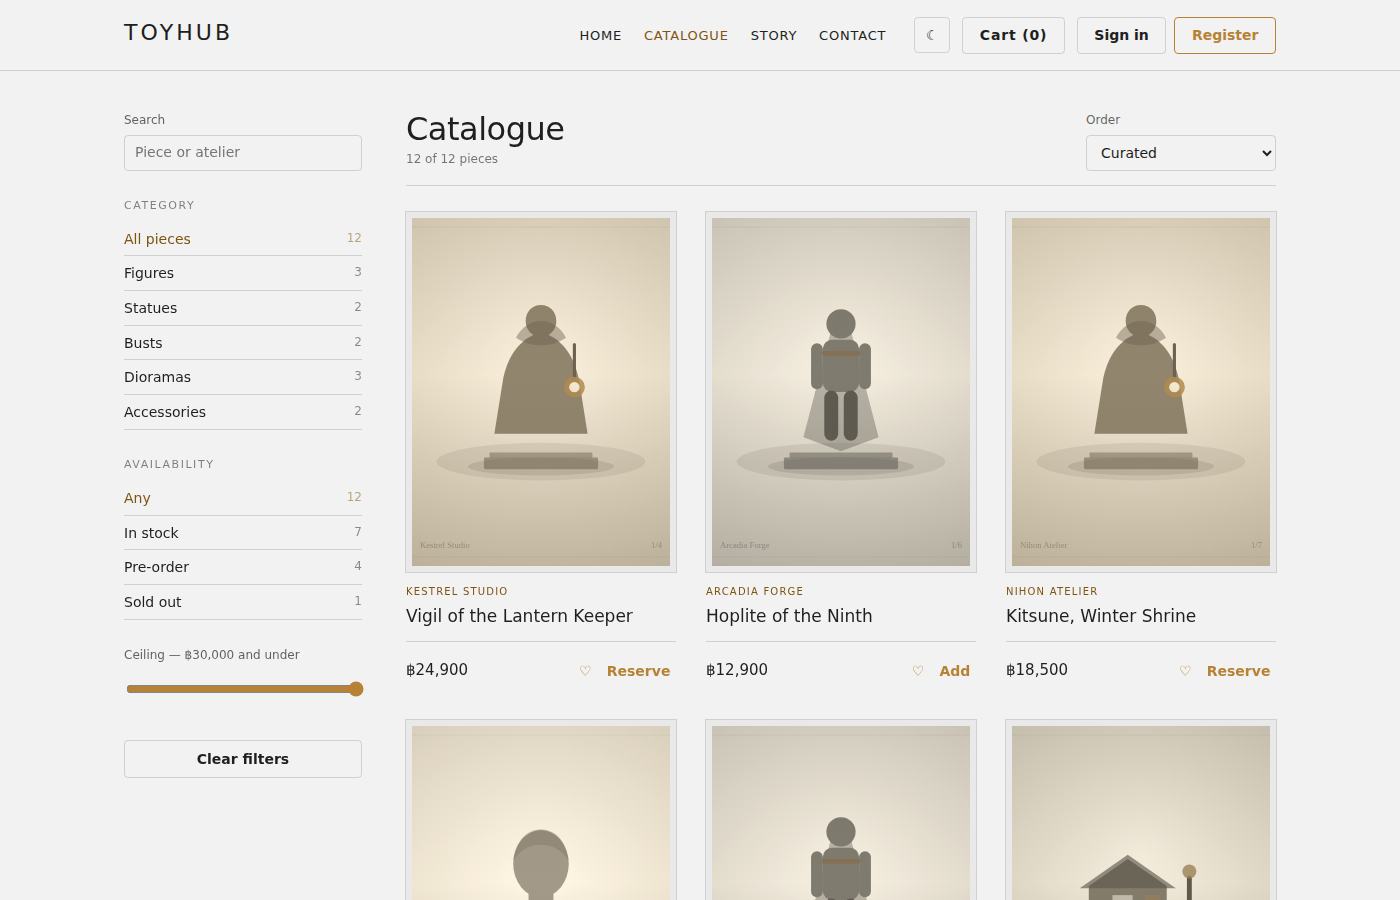
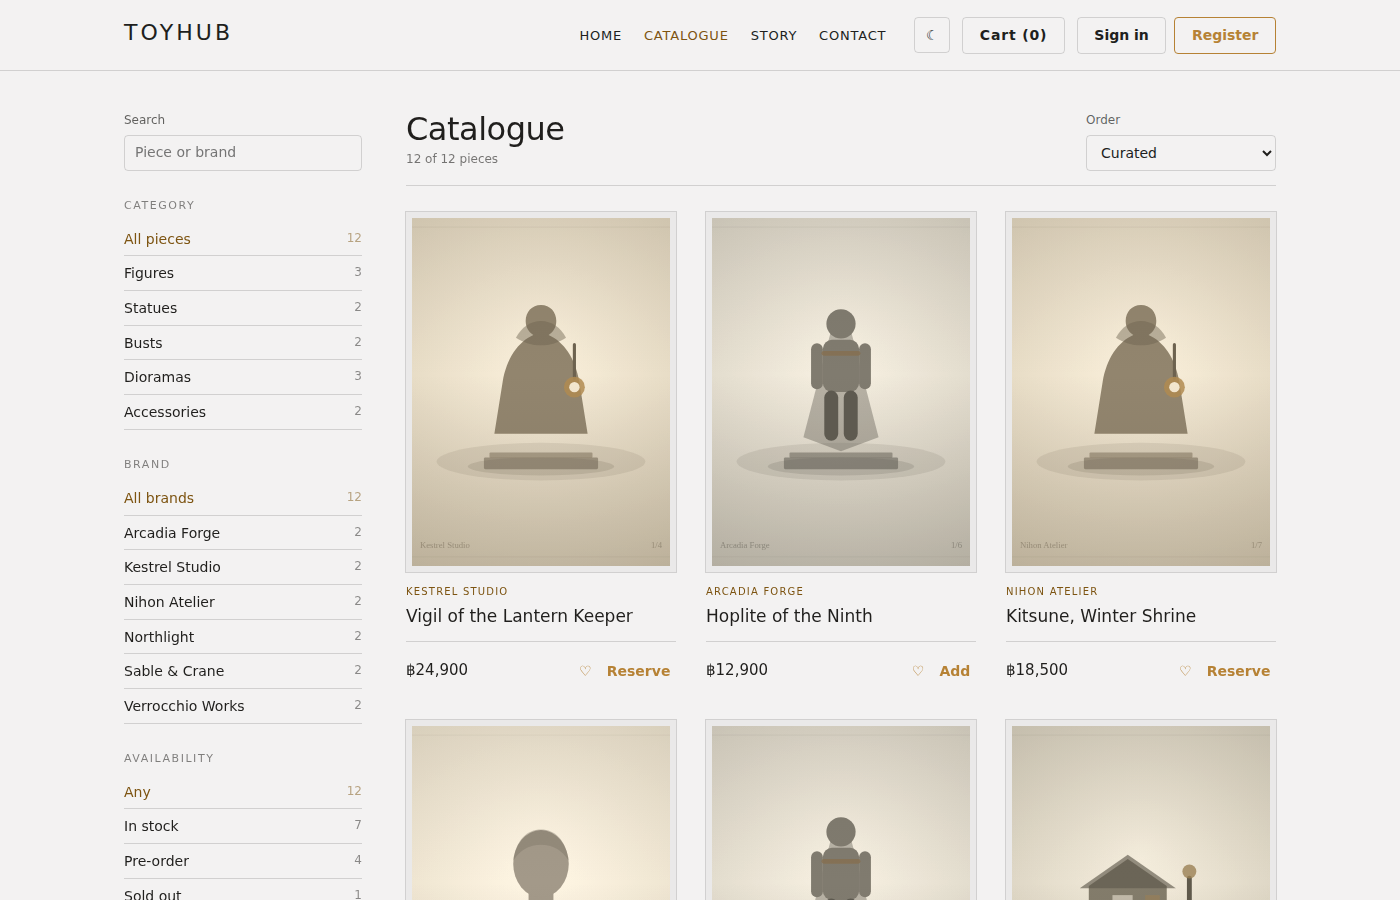
Turn the brand into something chosen, and filterable
Brand was a free-text field labelled Atelier, so the same maker could be
spelled three ways and nothing could group by it. It is now picked from
the brands the shop carries — Inart, UPFinegures/LPZZ and Hot Toys to
begin with — with "Add a new brand…" in the same control for anything
else, and the catalogue gains a Brand filter beside category and
availability. Every "Atelier" label reads Brand.

A native dropdown popup is painted on the OS background but inherits the
field's colour, so in the dark theme the options were near-white on
white. Options now carry their own colour: 13.5:1 in both themes.

New arrivals and Restore samples are gone, the latter along with the API
route and client call that only that button used.

diff --git a/toyhub/public/js/views/shop.js b/toyhub/public/js/views/shop.js
@@ -1,5 +1,5 @@
 import { h } from '../dom.js';
-import { CATS, STATUSES, ACCENT, INK, money } from '../helpers.js';
+import { CATS, STATUSES, brandsOf, ACCENT, INK, money } from '../helpers.js';
 import { plateCard, emptyState } from './common.js';
 import { textField } from './forms.js';
 
@@ -7,6 +7,7 @@ function filteredProducts(s) {
   const q = s.q.trim().toLowerCase();
   let list = s.products.filter((p) =>
     (s.cat === 'All' || p.category === s.cat) &&
+    (s.brand === 'All' || p.line === s.brand) &&
     (s.status === 'All' || p.status === s.status) &&
     Number(p.price) <= Number(s.maxPrice) &&
     (!q || (p.name + ' ' + p.line + ' ' + p.category).toLowerCase().includes(q))
@@ -33,12 +34,23 @@ export function renderShop(store) {
   return h('main', { style: 'max-width:1200px;margin:0 auto;padding:40px 24px 80px' }, [
     h('div', { 'data-shopgrid': true, style: 'display:grid;grid-template-columns:238px minmax(0,1fr);gap:44px;align-items:start' }, [
       h('aside', { 'data-sticky': true, style: 'position:sticky;top:96px;display:flex;flex-direction:column;gap:26px' }, [
-        textField({ key: 'shop.q', label: 'Search', type: 'search', placeholder: 'Piece or atelier', value: s.q, set: (v) => store.set({ q: v }) }),
+        textField({ key: 'shop.q', label: 'Search', type: 'search', placeholder: 'Piece or brand', value: s.q, set: (v) => store.set({ q: v }) }),
         h('div', {}, [
           h('div', { style: 'font-size:11px;letter-spacing:0.14em;text-transform:uppercase;opacity:0.55;margin-bottom:10px' }, 'Category'),
           h('div', { style: 'display:flex;flex-direction:column;gap:2px' }, [
             filterRow('All pieces', products.length, s.cat === 'All', () => store.set({ cat: 'All' })),
             ...CATS.map((c) => filterRow(c, products.filter((p) => p.category === c).length, s.cat === c, () => store.set({ cat: c })))
+          ])
+        ]),
+        h('div', {}, [
+          h('div', { style: 'font-size:11px;letter-spacing:0.14em;text-transform:uppercase;opacity:0.55;margin-bottom:10px' }, 'Brand'),
+          h('div', { style: 'display:flex;flex-direction:column;gap:2px' }, [
+            filterRow('All brands', products.length, s.brand === 'All', () => store.set({ brand: 'All' })),
+            // Only brands with something on the shelf — an empty row is a dead end.
+            ...brandsOf(products)
+              .map((b) => [b, products.filter((p) => p.line === b).length])
+              .filter(([, n]) => n > 0)
+              .map(([b, n]) => filterRow(b, n, s.brand === b, () => store.set({ brand: b })))
           ])
         ]),
         h('div', {}, [
@@ -52,7 +64,7 @@ export function renderShop(store) {
           h('label', {}, `Ceiling — ${money(s.maxPrice)} and under`),
           h('input', { class: 'input', type: 'range', 'data-key': 'shop.maxPrice', min: 1000, max: priceMax, step: 500, value: s.maxPrice, style: 'padding:0;border:0;accent-color:var(--color-accent)', onInput: (e) => store.set({ maxPrice: Number(e.target.value) }) })
         ]),
-        h('button', { class: 'btn btn-secondary', onclick: () => store.set({ q: '', cat: 'All', status: 'All', maxPrice: 30000, sort: 'curated' }) }, 'Clear filters')
+        h('button', { class: 'btn btn-secondary', onclick: () => store.set({ q: '', cat: 'All', brand: 'All', status: 'All', maxPrice: 30000, sort: 'curated' }) }, 'Clear filters')
       ]),
       h('div', {}, [
         h('div', { style: 'display:flex;align-items:flex-end;justify-content:space-between;gap:20px;border-bottom:1px solid var(--color-divider);padding-bottom:14px;margin-bottom:26px;flex-wrap:wrap' }, [
@@ -73,7 +85,7 @@ export function renderShop(store) {
         h('div', { style: 'display:grid;grid-template-columns:repeat(auto-fill,minmax(220px,1fr));gap:30px' },
           shop.map((p) => plateCard(store, p, { showActions: true }))),
         shop.length === 0 ? emptyState('Nothing under these terms', 'Loosen the ceiling or clear the filters to see the full cabinet.', 'Clear filters',
-          () => store.set({ q: '', cat: 'All', status: 'All', maxPrice: 30000, sort: 'curated' })) : null
+          () => store.set({ q: '', cat: 'All', brand: 'All', status: 'All', maxPrice: 30000, sort: 'curated' })) : null
       ])
     ])
   ]);

diff --git a/toyhub/public/js/views/home.js b/toyhub/public/js/views/home.js
@@ -1,6 +1,6 @@
 import { h } from '../dom.js';
 import { imgsOf, featuredOrder, pickRandom, money, bgUrl, MAX_FEATURED } from '../helpers.js';
-import { plateBg, plateCard, infoCard } from './common.js';
+import { plateBg, plateCard } from './common.js';
 
 // The hero plate opens the piece it is showing, so the image is as clickable as
 // the "View the plate" button beside it.
@@ -31,7 +31,6 @@ export function renderHome(store) {
   const heroImgs = hero ? imgsOf(hero) : [];
   const brands = Array.from(new Set(products.map((p) => p.line))).filter(Boolean);
   const featured = pickRandom(products, 4, s.seed);
-  const arrivals = products.slice(-3).reverse();
 
   return h('main', {}, [
     h('section', { style: 'max-width:1200px;margin:0 auto;padding:56px 24px 0' }, [
@@ -66,7 +65,7 @@ export function renderHome(store) {
 
     h('section', { 'data-reveal': true, style: 'max-width:1200px;margin:64px auto 0;padding:0 24px' }, [
       h('div', { style: 'display:flex;align-items:baseline;gap:18px;border-top:1px solid var(--color-divider);border-bottom:1px solid var(--color-divider);padding:14px 0;flex-wrap:wrap' }, [
-        h('span', { style: 'font-size:11px;letter-spacing:0.18em;text-transform:uppercase;opacity:0.55' }, 'Ateliers we carry'),
+        h('span', { style: 'font-size:11px;letter-spacing:0.18em;text-transform:uppercase;opacity:0.55' }, 'Brands we carry'),
         h('div', { style: 'display:flex;flex-wrap:wrap;gap:26px;margin-left:auto' },
           brands.map((name) => h('span', { style: 'font-family:var(--font-heading);font-size:15px;letter-spacing:0.08em' }, name)))
       ])
@@ -87,22 +86,13 @@ export function renderHome(store) {
         featured.map((p) => plateCard(store, p, { showActions: false })))
     ]),
 
-    h('section', { 'data-reveal': true, style: 'max-width:1200px;margin:80px auto 0;padding:0 24px' }, [
-      h('div', { style: 'display:flex;align-items:baseline;justify-content:space-between;border-bottom:1px solid var(--color-divider);padding-bottom:12px;margin-bottom:24px' }, [
-        h('h2', { style: 'font-weight:400;margin:0' }, 'New arrivals'),
-        h('span', { class: 'tnum', style: 'font-size:11px;letter-spacing:0.14em;text-transform:uppercase;opacity:0.55' }, `${String(products.length).padStart(2, '0')} pieces added`)
-      ]),
-      h('div', { style: 'display:grid;grid-template-columns:repeat(auto-fill,minmax(260px,1fr));gap:22px' },
-        arrivals.map((p) => infoCard(store, p, { body: 'short', metaRight: 'status' })))
-    ]),
-
     h('section', { id: 'story', 'data-reveal': true, style: 'max-width:1200px;margin:88px auto 0;padding:0 24px' }, [
       h('div', { 'data-col2': true, style: 'display:grid;grid-template-columns:minmax(0,1fr) minmax(0,1fr);gap:48px;align-items:start;border-top:1px solid var(--color-divider);padding-top:34px' }, [
         h('div', {}, [
           h('div', { style: 'font-size:11px;letter-spacing:0.18em;text-transform:uppercase;color:var(--color-accent-700);margin-bottom:14px' }, 'The shop'),
           h('h2', { style: 'font-size:34px;font-weight:400;margin:0 0 16px' }, 'A cabinet, not a toybox'),
           h('div', { 'data-cols2text': true, style: 'column-count:2;column-gap:32px;column-rule:1px solid var(--color-divider)' }, [
-            h('p', { class: 'just', style: 'font-size:14px;opacity:0.85' }, 'ToyHub keeps a short list on purpose. Each piece is examined, photographed on the bench, and listed with its atelier, scale and edition size — nothing enters the cabinet unless we would keep it ourselves.'),
+            h('p', { class: 'just', style: 'font-size:14px;opacity:0.85' }, 'ToyHub keeps a short list on purpose. Each piece is examined, photographed on the bench, and listed with its brand, scale and edition size — nothing enters the cabinet unless we would keep it ourselves.'),
             h('p', { class: 'just', style: 'font-size:14px;opacity:0.85' }, 'Pre-orders are held at deposit and settled when the shipping window opens. Collectors are welcome to reserve a plate, ask for bench photographs, or leave a piece on hold while a shelf is being built for it.')
           ]),
           h('button', { class: 'btn btn-secondary', style: 'margin-top:22px', onclick: () => store.go('shop') }, 'Enter the catalogue')

diff --git a/toyhub/public/js/views/admin.js b/toyhub/public/js/views/admin.js
@@ -1,6 +1,6 @@
 import { h } from '../dom.js';
 import { api } from '../api.js';
-import { money, dateLabel, ACCENT, INK } from '../helpers.js';
+import { money, dateLabel, BRANDS, ACCENT, INK } from '../helpers.js';
 import { textField } from './forms.js';
 import { emptyState } from './common.js';
 
@@ -28,7 +28,7 @@ function catalogueTab(store) {
     h('p', { style: 'font-size:13px;opacity:0.6;margin:0 0 20px;max-width:74ch' }, 'Up to four pieces can be featured in the homepage hero — marking a fifth releases the piece featured longest. Stock falls automatically as orders are paid, and a piece with no units left is marked sold out.'),
     h('div', { 'data-scroll': true }, [
       h('table', { class: 'table tnum' }, [
-        h('thead', {}, [h('tr', {}, ['Piece', 'Atelier', 'Category', 'Status', 'Stock', 'Price', 'Photos', ''].map((t) => h('th', {}, t)))]),
+        h('thead', {}, [h('tr', {}, ['Piece', 'Brand', 'Category', 'Status', 'Stock', 'Price', 'Photos', ''].map((t) => h('th', {}, t)))]),
         h('tbody', {}, s.products.map((p) => h('tr', {}, [
           h('td', {}, [
             h('div', { style: 'font-family:var(--font-heading);font-size:17px' }, p.name),
@@ -177,16 +177,8 @@ export function renderAdmin(store) {
       ]),
       h('div', { style: 'display:flex;gap:10px' }, [
         h('button', {
-          class: 'btn btn-secondary', onclick: async () => {
-            const { products } = await api.restoreSamples();
-            store.state.products = products;
-            store.flash('Sample catalogue restored');
-            store.set({});
-          }
-        }, 'Restore samples'),
-        h('button', {
           class: 'btn btn-primary',
-          onclick: () => store.set({ adminTab: 'catalogue', draftError: false, draft: { id: '', name: '', line: '', category: 'Figures', scale: '1/6', price: 9900, status: 'In stock', release: '', edition: '', featured: false, images: [], stock: 5, description: '' } })
+          onclick: () => store.set({ adminTab: 'catalogue', draftError: false, draft: { id: '', name: '', line: BRANDS[0], category: 'Figures', scale: '1/6', price: 9900, status: 'In stock', release: '', edition: '', featured: false, images: [], stock: 5, description: '' } })
         }, 'Add a piece')
       ])
     ]),

diff --git a/toyhub/public/js/views/draftDialog.js b/toyhub/public/js/views/draftDialog.js
@@ -1,7 +1,33 @@
 import { h } from '../dom.js';
 import { api } from '../api.js';
-import { CATS, STATUSES } from '../helpers.js';
+import { CATS, STATUSES, brandsOf } from '../helpers.js';
 import { textField, textareaField } from './forms.js';
+
+const NEW_BRAND = '__new__';
+
+// A brand is picked from the ones the shop already carries, or typed once and
+// then carried by the piece — which is how a new brand comes into existence.
+function brandField(store, d, set) {
+  const known = brandsOf(store.state.products);
+  const adding = d.line === '' || (d.line && known.indexOf(d.line) === -1);
+  return h('div', { class: 'field' }, [
+    h('label', {}, 'Brand'),
+    h('select', {
+      class: 'input', value: adding ? NEW_BRAND : d.line,
+      onChange: (e) => {
+        set('line')(e.target.value === NEW_BRAND ? '' : e.target.value);
+        store.set({});
+      }
+    }, known.map((b) => h('option', { value: b }, b)).concat([
+      h('option', { value: NEW_BRAND }, 'Add a new brand…')
+    ])),
+    adding ? h('input', {
+      class: 'input', style: 'margin-top:8px', placeholder: 'New brand name',
+      value: d.line, 'data-key': 'draft.newBrand',
+      onInput: (e) => set('line')(e.target.value)
+    }) : null
+  ]);
+}
 
 export function renderDraftDialog(store) {
   const s = store.state;
@@ -37,7 +63,7 @@ export function renderDraftDialog(store) {
       h('div', { class: 'dialog-title' }, d.id ? 'Edit piece' : 'Add a piece'),
       h('div', { 'data-formgrid': true, style: 'display:grid;grid-template-columns:repeat(2,minmax(0,1fr));gap:14px' }, [
         h('div', { style: 'grid-column:1 / -1' }, [textField({ key: 'draft.name', label: 'Piece name', placeholder: 'Vigil of the Lantern Keeper', value: d.name, set: set('name') })]),
-        textField({ key: 'draft.line', label: 'Atelier', placeholder: 'Kestrel Studio', value: d.line, set: set('line') }),
+        brandField(store, d, set),
         h('div', { class: 'field' }, [
           h('label', {}, 'Category'),
           h('select', { class: 'input', value: d.category, onChange: (e) => { set('category')(e.target.value); store.set({}); } },

diff --git a/toyhub/server/routes/products.js b/toyhub/server/routes/products.js
@@ -3,7 +3,6 @@ const crypto = require('crypto');
 const { pool } = require('../db');
 const { requireAdmin } = require('../middleware/auth');
 const { serializeProduct, MAX_FEATURED } = require('../lib/helpers');
-const { SEED_PRODUCTS } = require('../lib/seed');
 
 const router = express.Router();
 const STATUSES = ['In stock', 'Pre-order', 'Sold out'];
@@ -103,19 +102,6 @@ router.put('/:id', requireAdmin, async (req, res) => {
 router.delete('/:id', requireAdmin, async (req, res) => {
   await pool.query('DELETE FROM products WHERE id = $1', [req.params.id]);
   res.json({ ok: true });
-});
-
-router.post('/admin/restore-samples', requireAdmin, async (req, res) => {
-  await pool.query('DELETE FROM products');
-  for (const p of SEED_PRODUCTS) {
-    await pool.query(
-      `INSERT INTO products (id, name, line, category, scale, price, status, release_window, edition, featured, featured_at, images, stock, description)
-       VALUES ($1,$2,$3,$4,$5,$6,$7,$8,$9,$10,$11,$12,$13,$14)`,
-      [p.id, p.name, p.line, p.category, p.scale, p.price, p.status, p.release_window, p.edition, p.featured, p.featured_at, p.images, p.stock, p.description]
-    );
-  }
-  const rows = await allProducts();
-  res.json({ products: rows.map(serializeProduct) });
 });
 
 module.exports = router;

diff --git a/toyhub/public/js/views/cart.js b/toyhub/public/js/views/cart.js
@@ -43,7 +43,7 @@ export function renderCart(store) {
     h('p', { style: 'font-size:13px;opacity:0.6;margin:0 0 26px' }, 'Pre-order lines can be settled as a 30% deposit or in full. A deposit-only order carries no carriage — that is charged when the piece ships.'),
     lines.length ? h('div', {}, [
       h('table', { class: 'table tnum' }, [
-        h('thead', {}, [h('tr', {}, [h('th', {}, 'Piece'), h('th', {}, 'Atelier'), h('th', { style: 'text-align:center' }, 'Qty'), h('th', { style: 'text-align:right' }, 'Line'), h('th', {})])]),
+        h('thead', {}, [h('tr', {}, [h('th', {}, 'Piece'), h('th', {}, 'Brand'), h('th', { style: 'text-align:center' }, 'Qty'), h('th', { style: 'text-align:right' }, 'Line'), h('th', {})])]),
         h('tbody', {}, lines.map((p) => {
           const md = cartModeOf(store, p);
           const dep = md === 'deposit' && p.status === 'Pre-order';

diff --git a/toyhub/public/styles.css b/toyhub/public/styles.css
@@ -124,6 +124,10 @@ figcaption { font-size: 11px; margin-top: var(--space-1); color: color-mix(in sr
   font-size: 14px; color: var(--color-text); caret-color: var(--color-accent);
   background: transparent; border: 1px solid var(--color-divider); border-radius: var(--radius-md);
 }
+/* A native dropdown popup is painted by the OS on its own light background but
+   inherits the field's colour, which in the dark theme is near-white — so the
+   options need a background of their own to stay readable. */
+.input option, .input optgroup { background: var(--color-surface); color: var(--color-text); }
 .input:hover { border-color: color-mix(in srgb, var(--color-text) 45%, transparent); }
 .input:focus-visible { border-color: var(--color-accent); outline-offset: 0; }
 textarea.input { min-height: 90px; resize: vertical; }

diff --git a/toyhub/public/js/helpers.js b/toyhub/public/js/helpers.js
@@ -3,6 +3,11 @@ export const CARRIAGE = 890;
 export const MAX_FEATURED = 4;
 export const CATS = ['Figures', 'Statues', 'Busts', 'Dioramas', 'Accessories'];
 export const STATUSES = ['In stock', 'Pre-order', 'Sold out'];
+// The brands the shop starts with. An administrator adds others from the piece
+// dialog, and they join this list for as long as a piece carries them.
+export const BRANDS = ['Inart', 'UPFinegures/LPZZ', 'Hot Toys'];
+export const brandsOf = (products) =>
+  Array.from(new Set(BRANDS.concat((products || []).map((p) => p.line)))).filter(Boolean).sort();
 export const ACCENT = 'var(--color-accent-700)';
 export const INK = 'var(--color-text)';
 

diff --git a/toyhub/public/js/api.js b/toyhub/public/js/api.js
@@ -26,7 +26,6 @@ export const api = {
   createProduct: (body) => request('POST', '/api/products', body),
   updateProduct: (id, body) => request('PUT', `/api/products/${encodeURIComponent(id)}`, body),
   deleteProduct: (id) => request('DELETE', `/api/products/${encodeURIComponent(id)}`),
-  restoreSamples: () => request('POST', '/api/products/admin/restore-samples'),
 
   wishlist: () => request('GET', '/api/wishlist'),
   toggleWishlist: (id) => request('POST', `/api/wishlist/${encodeURIComponent(id)}/toggle`),

diff --git a/toyhub/public/js/views/product.js b/toyhub/public/js/views/product.js
@@ -31,7 +31,7 @@ export function renderProduct(store) {
   };
 
   const specs = [
-    ['Atelier', pd.line], ['Category', pd.category], ['Scale', pd.scale || '—'],
+    ['Brand', pd.line], ['Category', pd.category], ['Scale', pd.scale || '—'],
     ['Edition', pd.edition || 'Open edition'], ['Shipping window', pd.release || 'Ships now'],
     ['Units left', String(stockOf(pd))], ['Reference', pd.id.toUpperCase()]
   ];

diff --git a/toyhub/public/js/state.js b/toyhub/public/js/state.js
@@ -21,7 +21,7 @@ export const store = {
     adminOrders: [],
     adminMessages: [],
     demand: [],
-    q: '', cat: 'All', status: 'All', maxPrice: 30000, sort: 'curated',
+    q: '', cat: 'All', brand: 'All', status: 'All', maxPrice: 30000, sort: 'curated',
     draft: null, draftError: false,
     adminTab: 'catalogue',
     toast: '',
